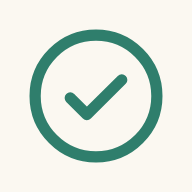
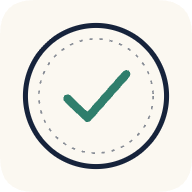
Usar el set de iconos de diseno en vez del que genere yo
Darwin paso el zip con los assets reales. La marca del favicon no es la
del encabezado: es un cuadrado redondeado de papel con aro azul tinta,
un circulo punteado interior y el check en verde. Yo la habia deducido
del componente Logo y no era eso.

Entra el set entero -svg, 16, 32, 48, 64, apple-touch, 192, 512 y un
maskable de 512 que al mio le faltaba- y se genera el .ico con los tres
pequenos dentro, que el zip no traia.

Se borra herramientas/generar-iconos.mjs: regeneraba los PNG desde el
SVG y ahora eso los empeoraria, porque los pequenos vienen ajustados a
mano. Un script que sobrescribe en silencio el trabajo del disenador es
una trampa, no una comodidad.

El manifiesto del zip traia rutas relativas (assets/...) y la
descripcion de otro producto ("Revisa tu historial de X"). Se corrigen:
rutas absolutas, que es como sirve Next lo de public/, y la descripcion
de Backup Reader. theme-color pasa a #16233B en los dos sitios, que es
lo que eligio el diseno.

Claude-Session: https://claude.ai/code/session_01F3eJTxVvbAW14CjAU9kAAH

diff --git a/backup-reader-web/pages/_document.tsx b/backup-reader-web/pages/_document.tsx
@@ -37,15 +37,22 @@ class MyDocument extends Document {
             El SVG primero: los navegadores que lo entienden lo prefieren y se
             ve nítido en cualquier densidad de pantalla. El .ico queda de
             respaldo y lleva 16, 32 y 48 dentro.
+
+            Los archivos vienen del set de diseño, no se generan aquí: los PNG
+            pequeños están ajustados a mano para su tamaño, y rasterizarlos de
+            nuevo desde el SVG los empeoraría.
           */}
           <link rel="icon" href="/favicon.svg" type="image/svg+xml" />
+          <link rel="icon" href="/favicon-64.png" type="image/png" sizes="64x64" />
           <link rel="icon" href="/favicon-48.png" type="image/png" sizes="48x48" />
           <link rel="icon" href="/favicon-32.png" type="image/png" sizes="32x32" />
           <link rel="icon" href="/favicon-16.png" type="image/png" sizes="16x16" />
           <link rel="shortcut icon" href="/favicon.ico" />
           <link rel="apple-touch-icon" href="/apple-touch-icon.png" sizes="180x180" />
           <link rel="manifest" href="/site.webmanifest" />
-          <meta name="theme-color" content="#FBF8F1" />
+          {/* El azul tinta de la marca, igual que theme_color del manifiesto:
+              es lo que tiñe la barra del navegador en móvil. */}
+          <meta name="theme-color" content="#16233B" />
 
           <link
             href="https://fonts.googleapis.com/css2?family=PT+Serif&display=swap"
